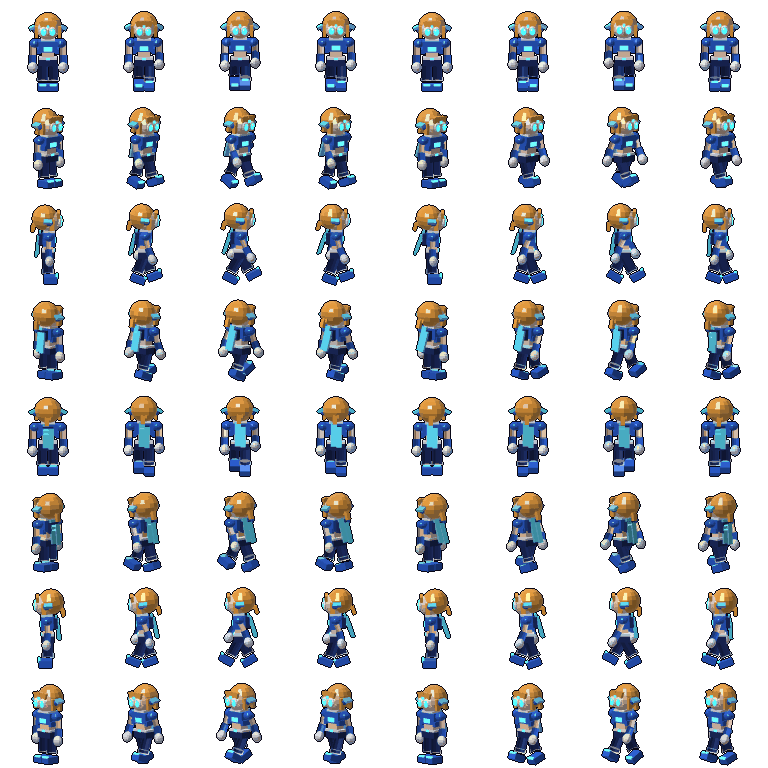
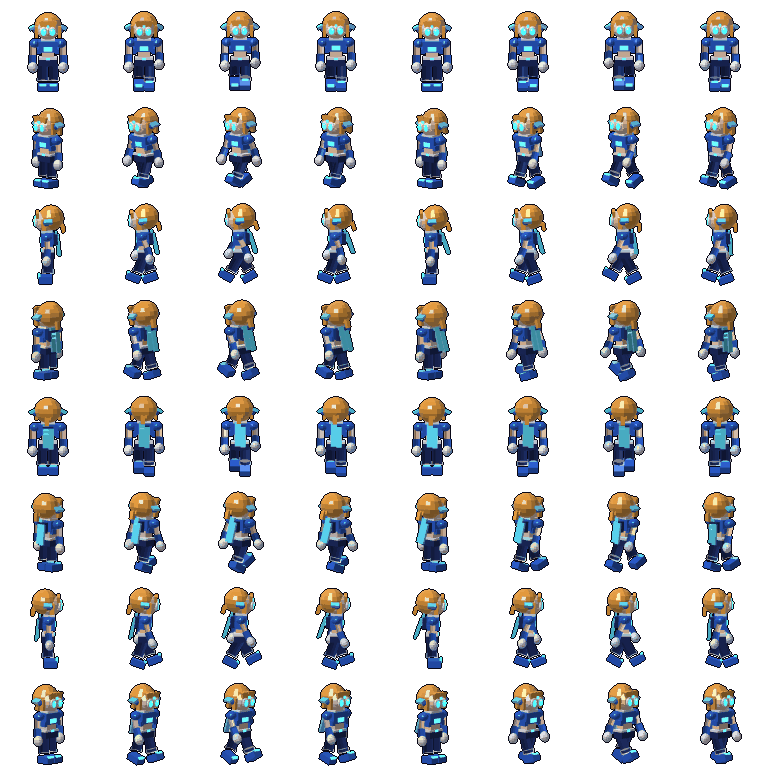
Room hero: left and right facings were mirrored; re-rendered the sheet

diff --git a/tools/room_hero_render.py b/tools/room_hero_render.py
@@ -17,7 +17,8 @@ import anim_render as ar
 
 S, TAU, PI = ar.S, ar.TAU, ar.PI
 # yaw (degrees) that makes the model face each screen direction. Checked by eye: see art/room_hero_preview.png
-FACINGS = {"S": 0, "SW": 45, "W": 90, "NW": 135, "N": 180, "NE": 225, "E": 270, "SE": 315}
+# (the first version had left and right mirrored: W showed the hero facing right. Verified by looking at the sheet after the fix.)
+FACINGS = {"S": 0, "SW": 315, "W": 270, "NW": 225, "N": 180, "NE": 135, "E": 90, "SE": 45}
 
 
 def walk_frames():
